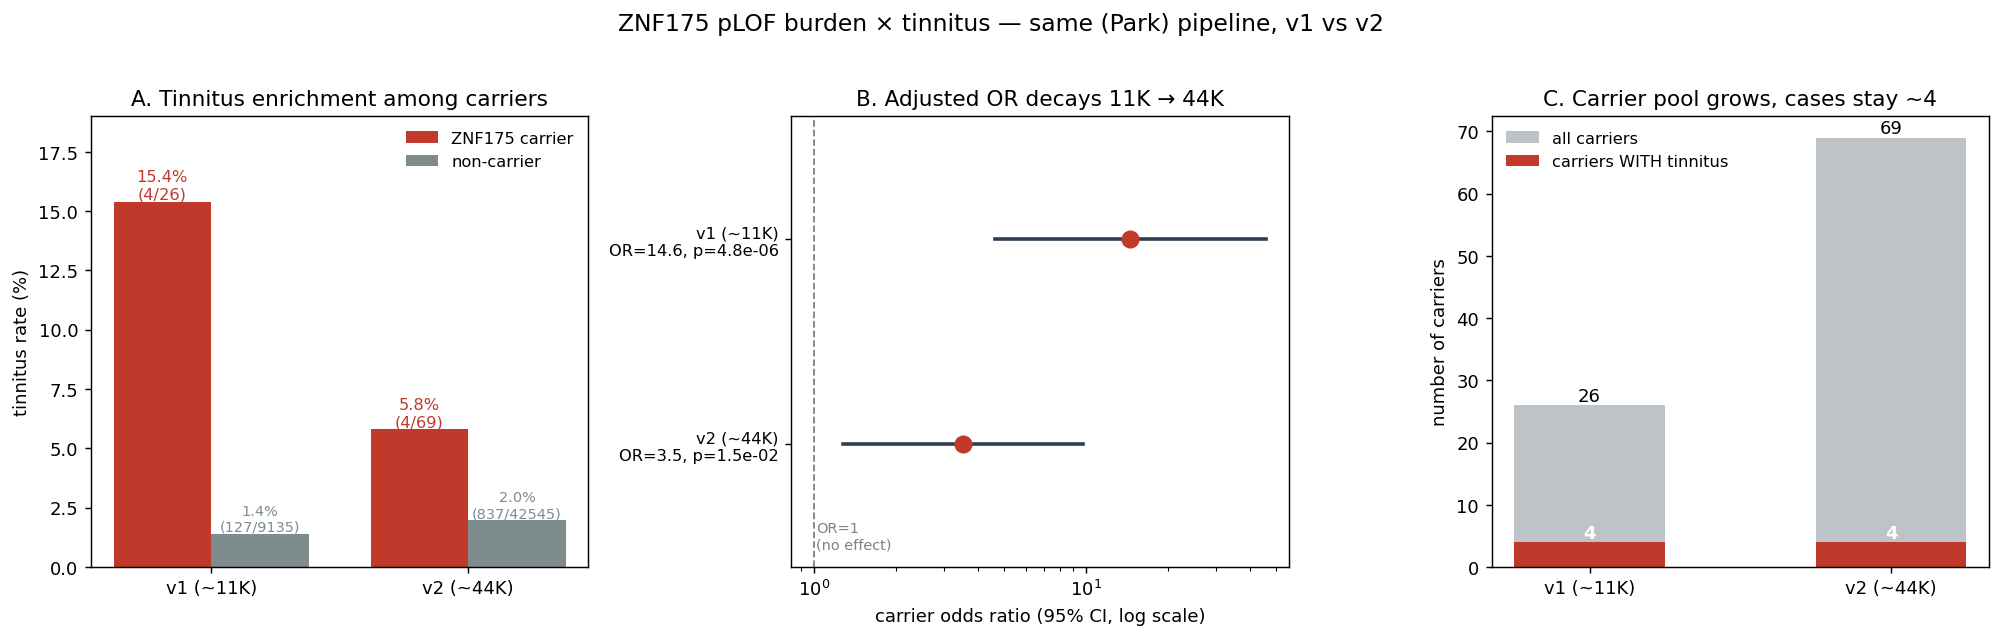
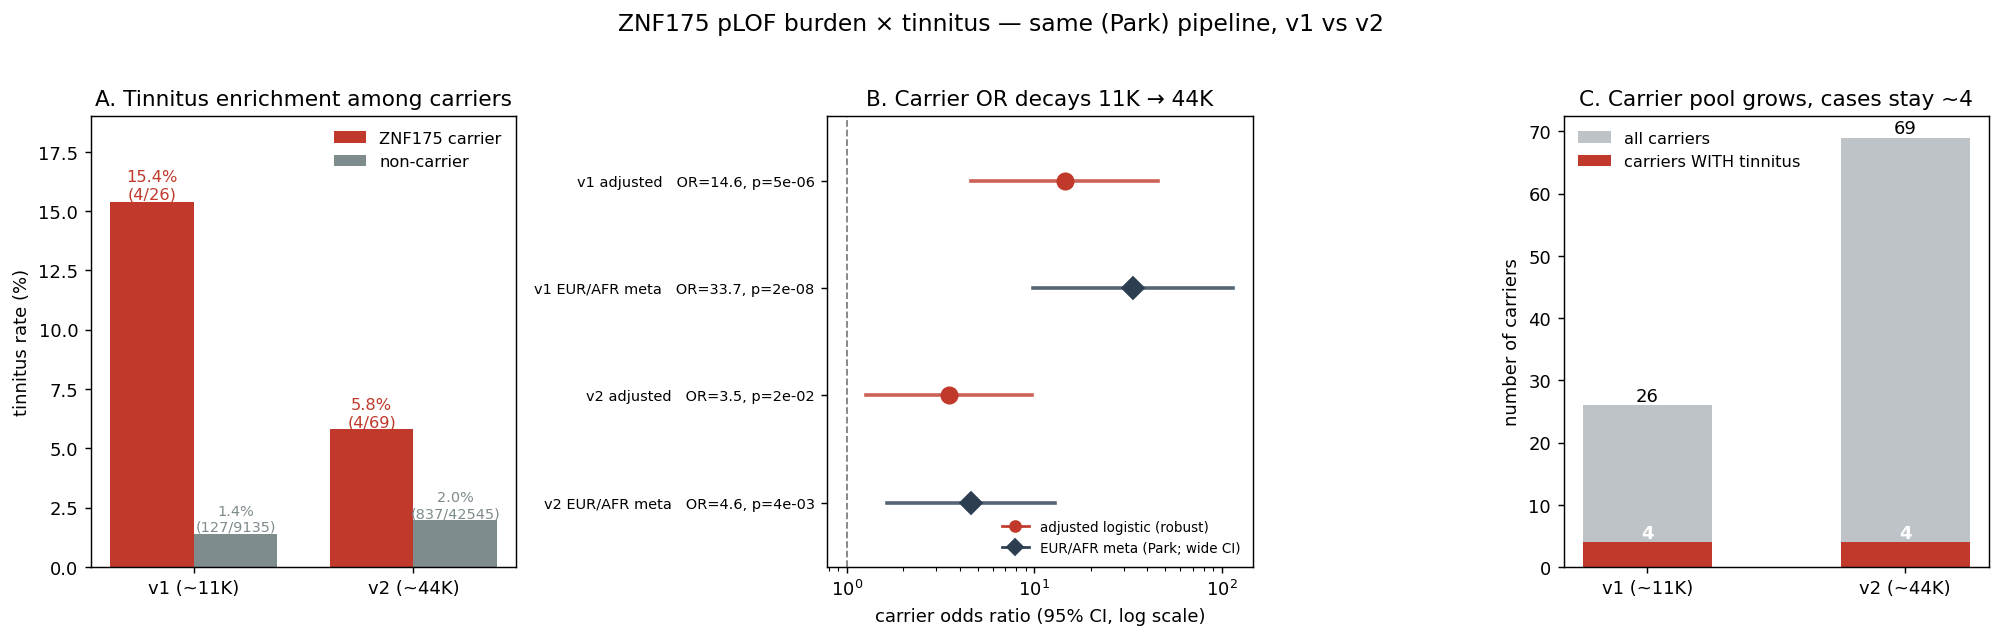
Checkpoint

diff --git a/analysis/chapter_2/scripts/07/plot_results.py b/analysis/chapter_2/scripts/07/plot_results.py
@@ -10,13 +10,36 @@ PCS = [f"PC{i}" for i in range(1, 11)]
 d1 = pd.read_csv(R07 / "v1_analysis.csv")
 d2 = pd.read_csv(R07 / "v2_analysis.csv")
 
-def fit_or(d):
-    dd = d.dropna(subset=["carrier", "age", "sex_male", "tinnitus"] + PCS).copy()
-    dd["age2"] = dd["age"] ** 2
+def _fit(dd):
+    dd = dd.copy(); dd["age2"] = dd["age"] ** 2
     X = sm.add_constant(dd[["carrier", "age", "age2", "sex_male"] + PCS])
     r = sm.Logit(dd["tinnitus"], X).fit(disp=0, maxiter=200)
     b, se = r.params["carrier"], r.bse["carrier"]
     return np.exp(b), np.exp(b - 1.96 * se), np.exp(b + 1.96 * se), r.pvalues["carrier"]
+
+def fit_or(d):  # pooled adjusted logistic
+    return _fit(d.dropna(subset=["carrier", "age", "sex_male", "tinnitus"] + PCS))
+
+def fit_meta(d):  # EUR/AFR-stratified + IVW meta (AFR has 0 carrier-cases -> meta = EUR stratum)
+    rows = []
+    for anc in ["EUR", "AFR"]:
+        sub = d[(d["anc"] == anc)].dropna(subset=["carrier", "age", "sex_male", "tinnitus"] + PCS)
+        if sub["tinnitus"].sum() == 0 or sub["carrier"].sum() == 0:
+            continue
+        try:
+            dd = sub.copy(); dd["age2"] = dd["age"] ** 2
+            X = sm.add_constant(dd[["carrier", "age", "age2", "sex_male"] + PCS])
+            r = sm.Logit(dd["tinnitus"], X).fit(disp=0, maxiter=200)
+            rows.append((r.params["carrier"], r.bse["carrier"]))
+        except Exception:
+            pass
+    w = [1/se**2 for _, se in rows if np.isfinite(se) and se > 0]
+    bs = [b for (b, se) in rows if np.isfinite(se) and se > 0]
+    bm = sum(b*wi for b, wi in zip(bs, w)) / sum(w)
+    sem = np.sqrt(1/sum(w))
+    from scipy.stats import norm
+    p = 2*(1-norm.cdf(abs(bm/sem)))
+    return np.exp(bm), np.exp(bm-1.96*sem), np.exp(bm+1.96*sem), p
 
 def rates(d):
     c = d[d.carrier == 1]; n = d[d.carrier == 0]
@@ -25,6 +48,7 @@ def rates(d):
 
 r1, r2 = rates(d1), rates(d2)
 or1 = fit_or(d1); or2 = fit_or(d2)
+m1 = fit_meta(d1); m2 = fit_meta(d2)
 
 fig, ax = plt.subplots(1, 3, figsize=(15.5, 4.8))
 C_CAR, C_NON = "#c0392b", "#7f8c8d"
@@ -41,18 +65,27 @@ a.set_xticks(x); a.set_xticklabels(["v1 (~11K)", "v2 (~44K)"])
 a.set_ylabel("tinnitus rate (%)"); a.set_ylim(0, 19)
 a.set_title("A. Tinnitus enrichment among carriers"); a.legend(frameon=False, fontsize=9)
 
-# --- Panel B: forest plot of carrier OR (adjusted logistic, 95% CI) ---
+# --- Panel B: forest plot — adjusted logistic (robust) + EUR/AFR meta (Park design), per cohort ---
 b = ax[1]
-labels = [f"v2 (~44K)\nOR={or2[0]:.1f}, p={or2[3]:.1e}", f"v1 (~11K)\nOR={or1[0]:.1f}, p={or1[3]:.1e}"]
-ors = [or2, or1]; ys = [0, 1]
-for y, o in zip(ys, ors):
-    b.plot([o[1], o[2]], [y, y], "-", color="#2c3e50", lw=2)
-    b.plot(o[0], y, "o", color="#c0392b", ms=9)
+# rows top->bottom: v1 adj, v1 meta, v2 adj, v2 meta
+entries = [  # (y, OR-tuple, method, label)
+    (3, or1, "adj",  f"v1 adjusted   OR={or1[0]:.1f}, p={or1[3]:.0e}"),
+    (2, m1,  "meta", f"v1 EUR/AFR meta   OR={m1[0]:.1f}, p={m1[3]:.0e}"),
+    (1, or2, "adj",  f"v2 adjusted   OR={or2[0]:.1f}, p={or2[3]:.0e}"),
+    (0, m2,  "meta", f"v2 EUR/AFR meta   OR={m2[0]:.1f}, p={m2[3]:.0e}"),
+]
+sty = {"adj": dict(color="#c0392b", marker="o"), "meta": dict(color="#2c3e50", marker="D")}
+for y, o, meth, _ in entries:
+    b.plot([o[1], o[2]], [y, y], "-", color=sty[meth]["color"], lw=2, alpha=0.8)
+    b.plot(o[0], y, sty[meth]["marker"], color=sty[meth]["color"], ms=9)
 b.axvline(1, color="gray", ls="--", lw=1)
-b.set_yticks(ys); b.set_yticklabels(labels, fontsize=9)
+b.set_yticks([e[0] for e in entries]); b.set_yticklabels([e[3] for e in entries], fontsize=8)
 b.set_xscale("log"); b.set_xlabel("carrier odds ratio (95% CI, log scale)")
-b.set_ylim(-0.6, 1.6); b.set_title("B. Adjusted OR decays 11K → 44K")
-b.text(1.02, -0.45, "OR=1\n(no effect)", color="gray", fontsize=8, va="center")
+b.set_ylim(-0.6, 3.6); b.set_title("B. Carrier OR decays 11K → 44K")
+from matplotlib.lines import Line2D
+b.legend(handles=[Line2D([0],[0],color="#c0392b",marker="o",ls="-",label="adjusted logistic (robust)"),
+                  Line2D([0],[0],color="#2c3e50",marker="D",ls="-",label="EUR/AFR meta (Park; wide CI)")],
+         fontsize=7.5, loc="lower right", frameon=False)
 
 # --- Panel C: dilution — carrier pool grows, carrier-cases stay flat ---
 c = ax[2]

diff --git a/analysis/chapter_2/proposal_znf175_maf_across_pmbb_versions.md b/analysis/chapter_2/proposal_znf175_maf_across_pmbb_versions.md
@@ -2,7 +2,7 @@
 
 **Author:** Andre Rico
 **Date:** 2026-06-05
-**Status:** NB 00–05 done (substrate stable + annotated). Next: NB 06–07 = ZNF175 burden regression, Park pipeline on both cohorts — data assembly confirmed on-disk (see §2c).
+**Status:** ✅ **NB 00–07 done — core question answered** (see §2b): signal reproduces Park at 11K, decays at 44K = winner's curse + exome-wide bar; variant set faithful to Park, residual gap is phenotype (phecode) not variants. Next: phecode via R `PheWAS` + Firth; profile the 4 carrier-cases; extend to v3/v4.
 **Project context:** Chapter 2 — resolving the ZNF175–tinnitus signal-loss puzzle (11K → 45K).
 **All analysis lives in:** `analysis/chapter_2/` (notebooks in `scripts/0X/`, outputs in `results/0X/`)
 
@@ -28,9 +28,9 @@ Pull **all variants at the ZNF175 locus** and compare their **presence and MAF**
 
 ---
 
-## 2b. Results so far (NB 00–05, executed 2026-06-05)
+## 2b. Results (NB 00–07)
 
-Notebooks in `scripts/0X/`, outputs in `results/0X/`. All extraction/annotation via LSF jobs (`scripts/0X/*.sh`).
+Notebooks in `scripts/0X/`, outputs in `results/0X/`. All extraction/annotation via LSF jobs (`scripts/0X/*.sh`). Full write-up: `findings_znf175_11k_vs_44k.md`; deck: `presentation_znf175.md`.
 
 | NB | What | Headline result |
 |---|---|---|
@@ -40,8 +40,12 @@ Notebooks in `scripts/0X/`, outputs in `results/0X/`. All extraction/annotation 
 | **03** | Annotation via **Biofilter 4** | 97/386 found; 6 pLOF; **0 AlphaMissense** for ZNF175. **75% not_found because the loaded BF4 DB was filtered to gnomAD AC≥5** (AC<5 excluded — they exist in gnomAD; reversible by reloading without the cutoff). |
 | **04** | Annotation via **VEP + dbNSFP4.5a** (by coordinate) | **384/386** annotated; **24 pLOF**; **177 AlphaMissense**. Covers the AC<5 variants BF4's cutoff excluded. |
 | **05** | **VEP × BF4** reconciliation | 94% consequence agreement where both annotate; VEP superior on coverage + AlphaMissense + pLOF. BF4's gap is the AC≥5 DB filter, not an inherent limit. |
+| **06** | Qualifying set (Park filter: pLOF + MAF≤0.1%) + carriers, both cohorts | v1: **10 variants, 34 carriers (0.30%)**; v2: 24 variants, 72 carriers (0.16%). Carrier rate ~halved as cohort grew. *(VEP `--most_severe` for pLOF; plink2 `--export-allele` to count ALT.)* |
+| **07** | **Burden regression** `tinnitus ~ carrier + age + age² + sex + PC1-10`, EUR/AFR-strat + meta | **v1: OR 14.6, p=4.8×10⁻⁶ (meta 2×10⁻⁸) — reproduces Park** (his 3.24×10⁻¹⁰). **v2: OR 3.5, p=0.015 — attenuated.** Carrier-AND-tinnitus = **4 in BOTH** cohorts (didn't grow). |
 
-> **Conclusion (substrate question):** the ZNF175 variant substrate is **stable** between v1 and v2 → the 11K→45K signal loss is **NOT** a variant-substrate artifact. It points to **winner's curse** or **association-pipeline differences** (pLOF→missense in replications; phenotype-release version). ⚠️ This compares MAF, not the association — the definitive verdict needs the **association re-run** with a matched pipeline.
+> **CONCLUSION (the answer):** with the **same pipeline** on both cohorts, the signal **reproduces Park at 11K and decays at 44K**. The ~4 carrier-cases anchoring it **did not grow** with the cohort (pool 26→69 added phenotype-negative carriers) → enrichment dilutes → OR ~14→3.5 = **winner's curse**. Hui's "loss" = this + the **exome-wide bar** (p<10⁻⁶ across ~1,500 genes). **Not a pipeline artifact; attenuated, not a clean null.**
+>
+> **Variant set is faithful to Park** — verified against his preserved list (`data/PMBB_Exome/ZNF175/Joe_analyses/znf175_variants.txt`, b37): Park = **10–11 pLOF / 35 carriers**, we = **10 / 34**. → the residual gap to his p-value is the **phenotype definition** (phecode + control exclusions vs our raw ICD) ± **Firth**, **not** the variants. (Park: GRCh37 + ANNOVAR + phecode + Firth; us: GRCh38 + VEP + ICD + standard logistic — faithful to the method, not bit-identical.)
 
 **Annotation-tool notes (LPC):** see memories `reference-biofilter4-lpc` and `reference-vep-annovar-lpc`. Open refinements: VEP `--most_severe` (vs `--pick`) for a pLOF-focused pass; LOFTEE HC/LC needs `human_ancestor`/gerp data (absent).
 

diff --git a/analysis/chapter_2/presentation_znf175.md b/analysis/chapter_2/presentation_znf175.md
@@ -99,12 +99,11 @@ We **reproduced Park's discovery** at 11K (vs his published 3.24×10⁻¹⁰).
 
 ---
 
-## 8. Caveats & next steps
+## 8. Caveats
 
 - **Small carrier-case counts (n = 4)** → estimates noisy; qualitative pattern (strong v1, weak v2) is the robust takeaway.
 - Faithful to **Park's method**, not bit-identical to his exact code (VEP vs ANNOVAR; ICD vs phecode; standard vs Firth; GRCh38 vs GRCh37). A bit-for-bit replication is feasible (tools on LPC) — documented next step.
 - Cross-cohort **per-individual matching not possible** (different ID schemes) — "4 in both, likely overlapping" is inferred.
-- **Next:** (1) profile the 4 carrier-cases (variants, age, ancestry); (2) phecode via R `PheWAS` + Firth; (3) extend the burden to **v3/v4** (≥57K/70K) to see where the effect settles.
 
 ---
 